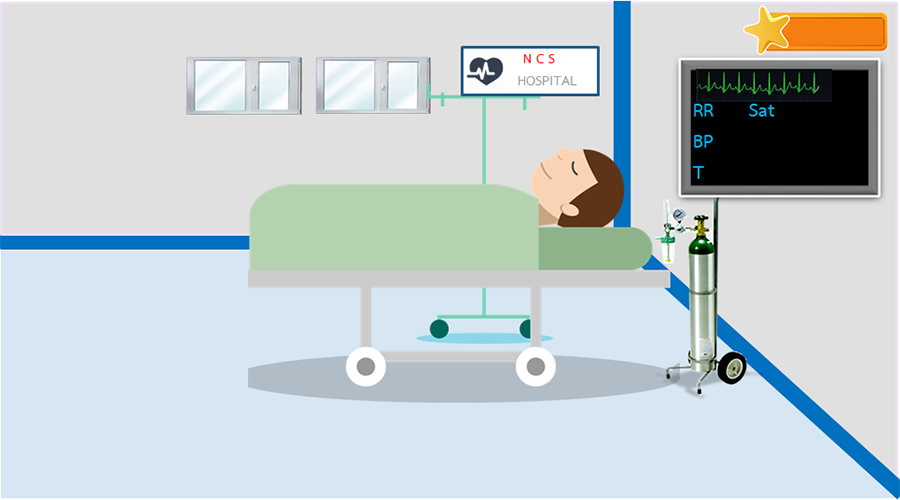
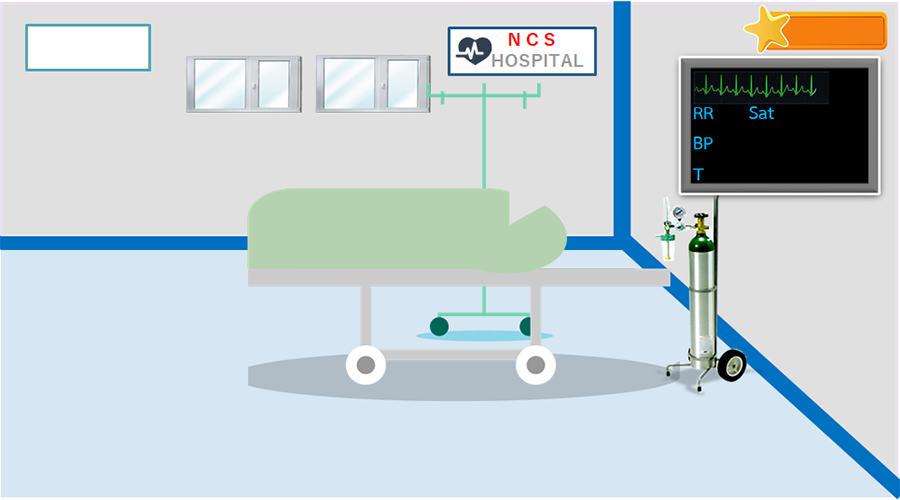
'editPeople'

diff --git a/javascripts/Main2.js b/javascripts/Main2.js
@@ -214,7 +214,7 @@ Stages.playGame = function(game) {
     var warning1, warning2;
     var mediecation2, recomend2, vs2;
     var m1, m2, m3, cancelM;
-    var info, finish;
+    var info, finish, people;
 
 };
 Stages.playGame.prototype = {
@@ -234,6 +234,8 @@ Stages.playGame.prototype = {
         game.load.image('recomend', './photo/recomend.png')
         game.load.image('info', './photo/info.png');
         game.load.image('finish', './photo/finish.png');
+        gaem.load.image('people1', './photo/people1.png');
+        game.load.image('people2', './photo/people2.png')
 
 
         game.load.image('bar', './photo/bar.png');
@@ -291,6 +293,7 @@ Stages.playGame.prototype = {
     },
     create: function() {
         game.add.sprite(0, 0, 'bg');
+        people = game.add.sprite(500, 250, 'people1');
         //game.add.sprite(0, 60, 'board');
 
         startlogo = game.add.sprite(450, 250, 'startlogo')
@@ -640,15 +643,15 @@ Stages.playGame.prototype = {
         game.add.sprite(0, 50, 'board');
 
         this.choice = game.add.group();
-        notify1 = this.choice.create(200, game.world.height - 70, 'notify');
+        notify1 = this.choice.create(600, game.world.height - 70, 'notify');
         notify1.scale.setTo(0.65, 0.65);
-        position1 = this.choice.create(400, game.world.height - 70, 'position');
+        position1 = this.choice.create(200, game.world.height - 70, 'position');
         position1.scale.setTo(0.65, 0.65);
-        oxygen1 = this.choice.create(600, game.world.height - 70, 'oxygen');
+        oxygen1 = this.choice.create(400, game.world.height - 70, 'oxygen');
         oxygen1.scale.setTo(0.65, 0.65);
 
         notify1.inputEnabled = true;
-        notify1.events.onInputDown.add(this.notify1, this);
+        notify1.events.onInputDown.add(this.checkN, this);
         position1.inputEnabled = true;
         position1.events.onInputDown.add(this.position1, this);
         oxygen1.inputEnabled = true;
@@ -665,6 +668,11 @@ Stages.playGame.prototype = {
             h += 20;
         });
 
+    },
+    checkN: function() {
+        if (!(position1.inputEnabled && oxygen1.inputEnabled)) {
+            this.notify1();
+        }
     },
     notify1: function() {
         number.score += 10;
@@ -705,6 +713,7 @@ Stages.playGame.prototype = {
         this.choiceP.destroy();
     },
     p2: function() {
+        people = game.add.sprite(500, 250, 'people2');
         number.score += 10;
         score.setText(number.score);
         position1.inputEnabled = false;
@@ -802,7 +811,7 @@ Stages.playGame.prototype = {
         c4.events.onDragStop.add(this.onDragStopC4, this);
     },
     onDragStopC1: function() {
-        if (Phaser.Rectangle.intersects(c1.getBounds(), s3.getBounds())) {
+        if (Phaser.Rectangle.intersects(c1.getBounds(), r3.getBounds())) {
             c1.destroy();
             checkC++;
             cCheck.c1 = true;
@@ -821,7 +830,7 @@ Stages.playGame.prototype = {
             if (cCheck.c1 && cCheck.c2 && cCheck.c3 && cCheck.c4) {
                 this.checkWarning();
             }
-        } else if (Phaser.Rectangle.intersects(c1.getBounds(), r3.getBounds())) {
+        } else if (Phaser.Rectangle.intersects(c1.getBounds(), s3.getBounds())) {
             c1.destroy();
             cCheck.c1 = true;
             if (cCheck.c1 && cCheck.c2 && cCheck.c3 && cCheck.c4) {
@@ -905,14 +914,14 @@ Stages.playGame.prototype = {
         }
     },
     onDragStopC4: function() {
-        if (Phaser.Rectangle.intersects(c4.getBounds(), r3.getBounds())) {
+        if (Phaser.Rectangle.intersects(c4.getBounds(), s3.getBounds())) {
             c4.destroy();
             checkC++;
             cCheck.c4 = true;
             if (cCheck.c1 && cCheck.c2 && cCheck.c3 && cCheck.c4) {
                 this.checkWarning();
             }
-        } else if (Phaser.Rectangle.intersects(c4.getBounds(), s3.getBounds())) {
+        } else if (Phaser.Rectangle.intersects(c4.getBounds(), r3.getBounds())) {
             c4.destroy();
             cCheck.c4 = true;
             if (cCheck.c1 && cCheck.c2 && cCheck.c3 && cCheck.c4) {
@@ -975,12 +984,8 @@ Stages.playGame.prototype = {
             c = 1;
             console.log(c);
             if (checkC == 3) {
-                number.score += 75;
-                score.setText(number.score);
                 this.game4();
             } else if (checkC == 4) {
-                number.score += 100;
-                score.setText(number.score);
                 this.game4();
             } else {
                 this.warning();
@@ -990,15 +995,7 @@ Stages.playGame.prototype = {
             warning2.anchor.x = 0.5;
             warning2.anchor.y = 0.5;
             warning2.inputEnabled = true;
-            number.rate = 102
-            number.rr = 36;
-            number.sat = '87%';
-            number.bp = '150/90';
-            rate.setText(number.rate);
-            rr.setText(number.rr);
-            sat.setText(number.sat);
-            bp.setText(number.bp);
-            warning2.events.onInputDown.add(this.game4, this);
+            warning2.events.onInputDown.add(this.finish, this);
         }
     },
     game4: function() {
